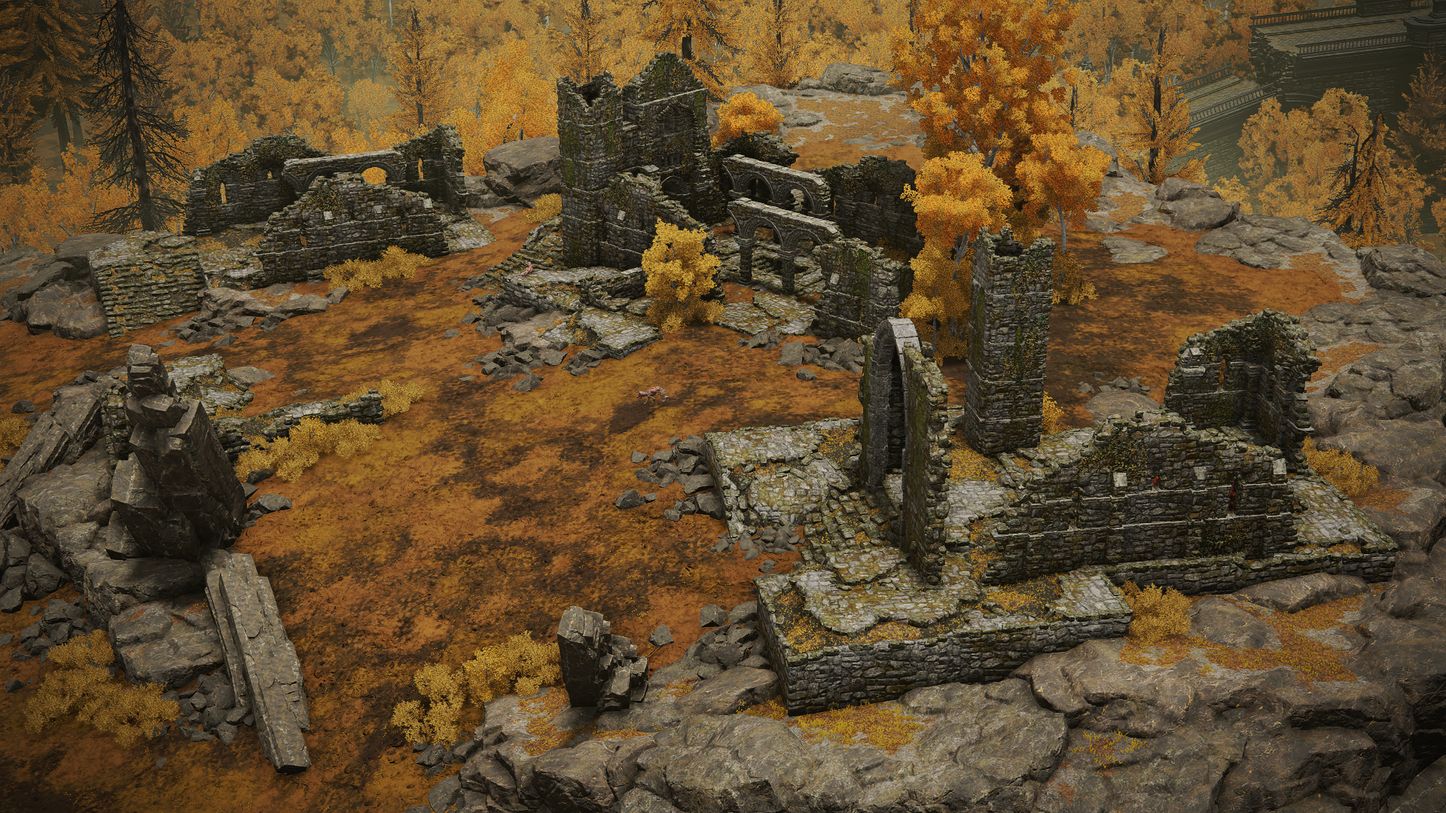
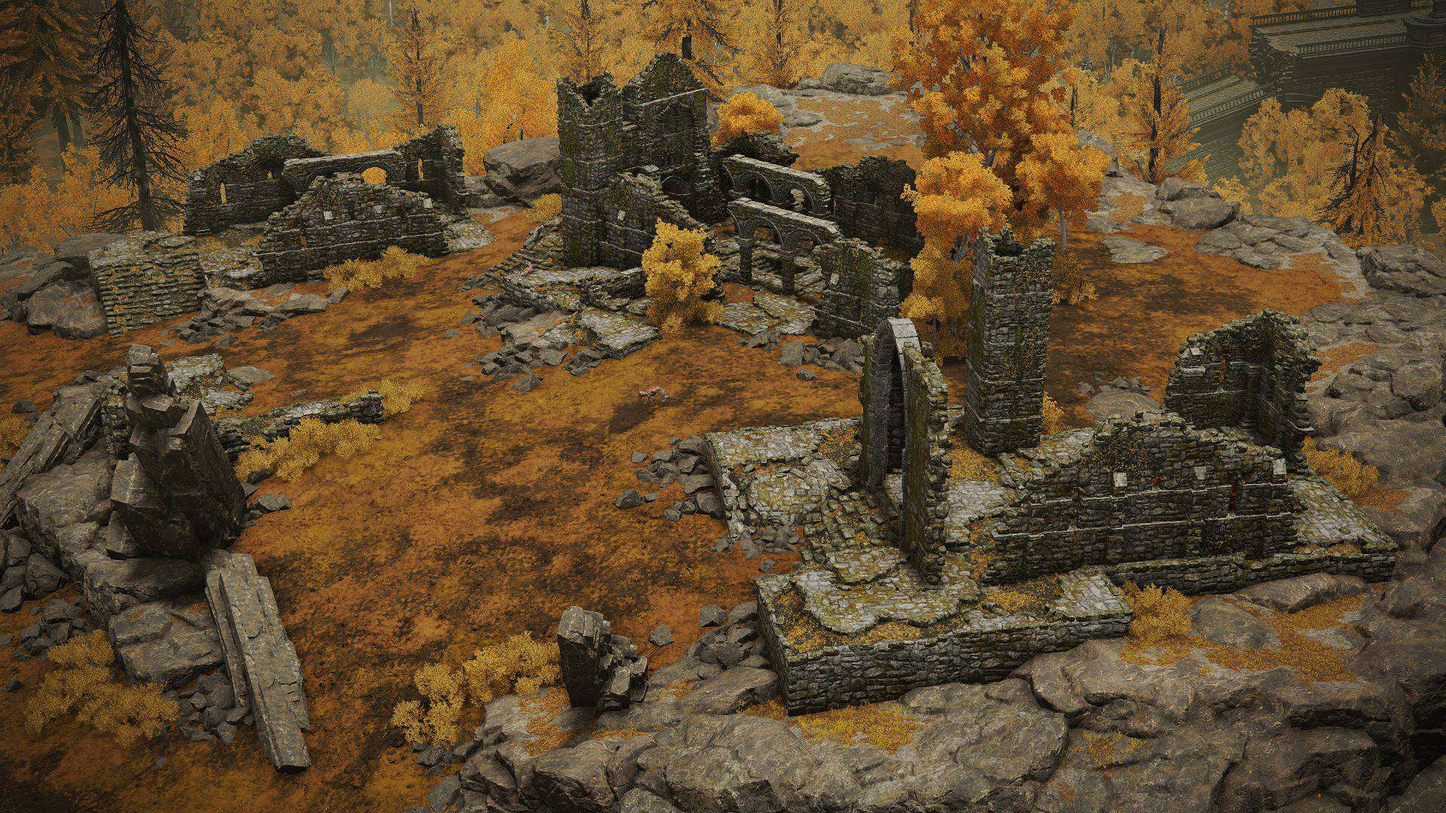
Correction tailles images

Changed region(s): [[0.0, 0.0, 1.0, 1.0], [0.9688, 0.4583, 1.0, 0.4889], [0.0625, 0.5806, 0.0938, 0.6111]]

diff --git a/css/styles.css b/css/styles.css
@@ -6,11 +6,13 @@
 @import url('https://fonts.googleapis.com/css2?family=Metamorphous&display=swap');
 
 header {
-    padding-top: 10%;
+    padding-top: 11%;
     padding-bottom: 4%;
-    padding-left: 10%;
+    padding-left: 22.5%;
     padding-right: 10%;
     background-color: hsl(34, 57%, 70%, 0);
+    display: flex;
+    flex-direction: row;
 }
 
 header>a>img {
@@ -25,7 +27,7 @@ header>img {
 }
 
 .font-site-1 {
-    background-image: url(../img/font-site.jpeg), url(../img/lord.jpg);
+    background-image: url(../img/font-site.jpg), url(../img/lord.jpg);
     background-repeat: no-repeat, no-repeat;
     background-position: top, bottom;
     background-size: contain, contain;
@@ -34,7 +36,7 @@ header>img {
 }
 
 .font-site-2 {
-    background-image: url(../img/font-site.jpeg);
+    background-image: url(../img/font-site.jpg);
     background-size: cover;
     background-attachment: fixed;
     font-family: Tahoma, sans-serif;
@@ -51,6 +53,7 @@ nav {
     border-left: 10px double rgb(255, 228, 169, 0.8);
     font-family: Georgia, 'Times New Roman', Times, serif;
     margin-bottom: 2%;
+    width: 1490px;
 }
 
 nav>img {
@@ -125,6 +128,7 @@ footer {
     background-position: 10px, 1410px;
     text-align: center;
     text-shadow: 3px 3px 3px rgb(0, 0, 0, 0.4);
+    width: 1510px;
 }
 
 #flamme {
@@ -240,6 +244,7 @@ aside img:hover {
     margin-left: 10%;
     margin-right: 10%;
     background: rgba(222, 184, 135, 0.7);
+    width: 1490px;
 }
 
 #page-index {
@@ -254,6 +259,7 @@ aside img:hover {
     display: flex;
     flex-direction: row;
     align-items: flex-start;
+    width: 1490px;
 }
 
 h1 {
@@ -477,6 +483,7 @@ th {
     margin-left: 10%;
     margin-right: 10%;
     background: rgba(222, 184, 135, 0.7);
+    width: 1490px;
 }
 
 #img-repos {

diff --git a/galerie-images.html b/galerie-images.html
@@ -41,11 +41,11 @@
                     <p><span>Combat</span></p>
                 </div>
                 <div>
-                    <img src="img/Galerie/ersote.png" alt="ersote"> <!--FromSoftware, Bandai Namco Entertainment-->
+                    <img src="img/Galerie/ersote.jpg" alt="ersote"> <!--FromSoftware, Bandai Namco Entertainment-->
                     <p><span>Ersote</span></p>
                 </div>
                 <div>
-                    <img src="img/Galerie/nokron.png" alt="nokron"> <!--FromSoftware, Bandai Namco Entertainment-->
+                    <img src="img/Galerie/nokron.jpg" alt="nokron"> <!--FromSoftware, Bandai Namco Entertainment-->
                     <p><span>Nokron</span></p>
                 </div>
                 <div>

diff --git a/commentaires.html b/commentaires.html
@@ -31,7 +31,7 @@
     <div id="page-com">
         <main>
             <h1>- Commentaires -</h1>
-            <img src="img/repos.webp" alt="repos" id="img-repos"> <!--FromSoftware, Bandai Namco Entertainment-->
+            <img src="img/repos.jpg" alt="repos" id="img-repos"> <!--FromSoftware, Bandai Namco Entertainment-->
             <form action="mailto:jolii-rockeuse@hotmail.fr" method="post" enctype="text/plain">
                 <fieldset id="formulaire1">
                     <div>
